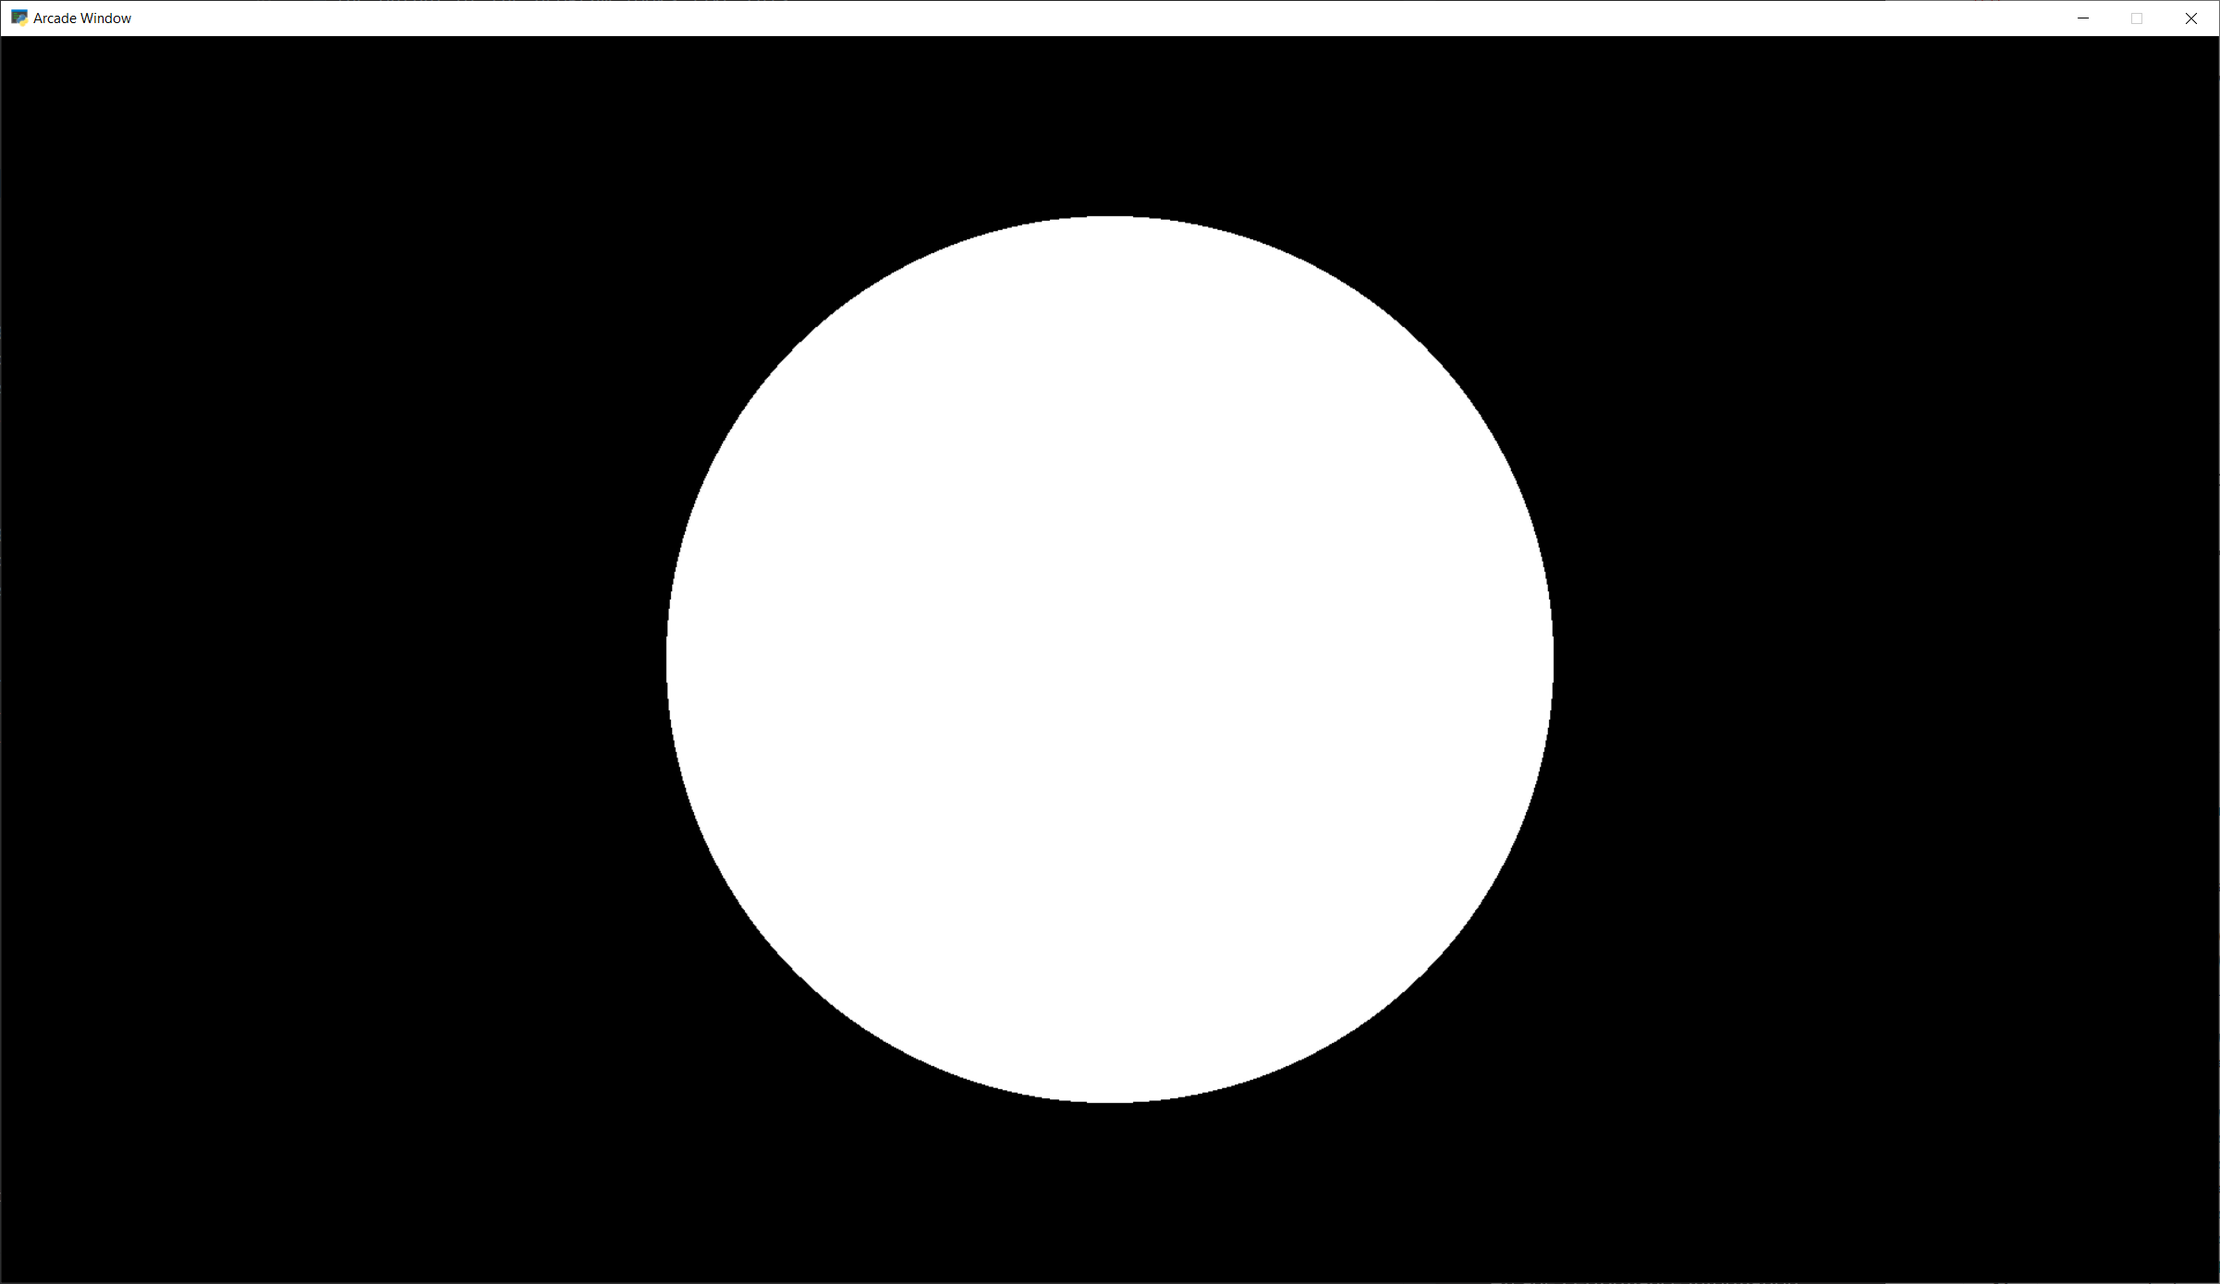
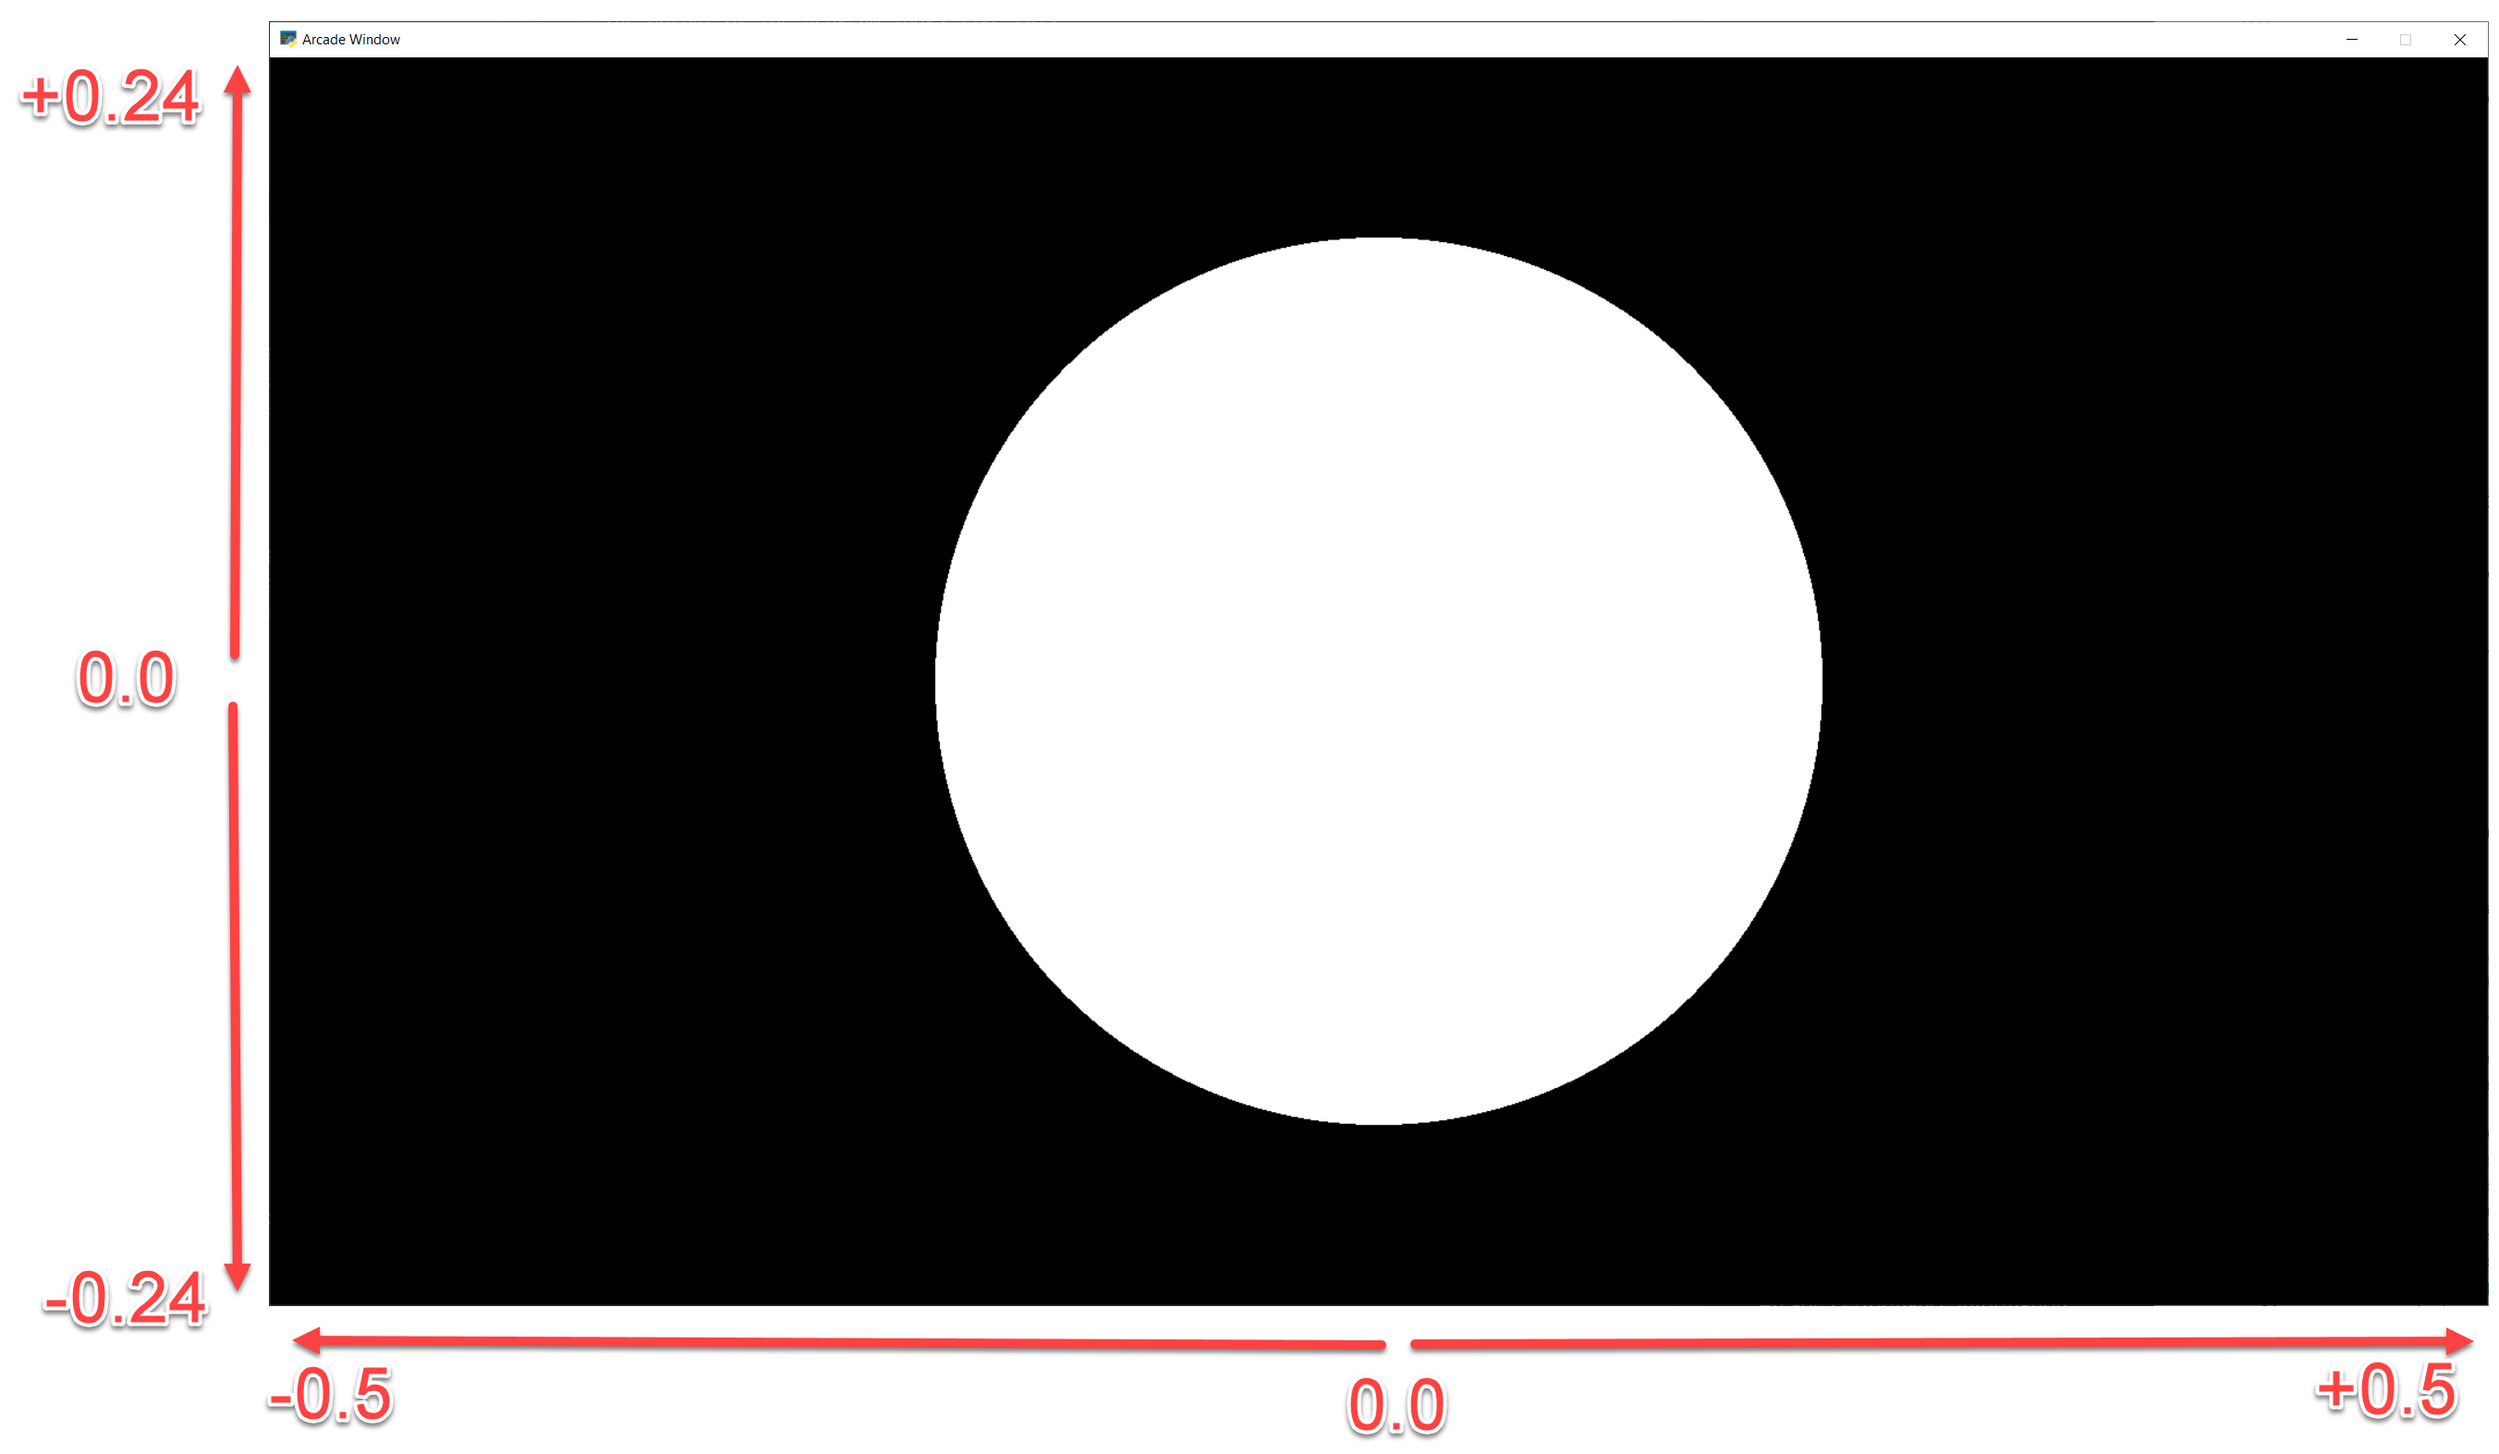
Work on shadertoy tutorial.

Changed region(s): [[0.0, 0.0, 1.0, 1.0], [0.281, 0.1547, 0.7494, 0.8662], [0.6557, 0.6496, 0.6869, 0.6806]]

diff --git a/doc/tutorials/shader_toy/shadertoy_demo_3.py b/doc/tutorials/shader_toy/shadertoy_demo_3.py
@@ -9,13 +9,16 @@ class MyGame(arcade.Window):
         super().__init__(width=1920, height=1080)
 
         # Read a GLSL program into a string
-        file = open("circle_5.glsl")
+        file = open("circle_6.glsl")
         shader_sourcecode = file.read()
         # Create a shader from it
         self.shadertoy = Shadertoy(size=self.get_size(),
                                    main_source=shader_sourcecode)
 
     def on_draw(self):
+        # Set uniform data to send to the GLSL shader
+        self.shadertoy.program['pos'] = self.mouse["x"], self.mouse["y"]
+        self.shadertoy.program['color'] = arcade.get_three_float_color(arcade.color.LIGHT_BLUE)
         # Run the GLSL code
         self.shadertoy.render()
 

diff --git a/doc/tutorials/shader_toy/index.rst b/doc/tutorials/shader_toy/index.rst
@@ -46,7 +46,8 @@ Next, let's create a simple first GLSL program. Our program will:
 * Normalize the coordinates. Instead of 0 to 1024, we'll go 0.0 to 1.0. This is standard
   practice, and allows us to work independently of resolution.
   Resolution is already stored for us in a standardized variable named ``iResolution``.
-* Next, we'll use a white color as default.
+* Next, we'll use a white color as default. Colors are four floating point RGBA values, ranging
+  from 0.0 to 1.0. To start with, we'll set just RGB and use 1.0 for alpha.
 * If we are greater that 0.2 for our coordinate (20% of screen size) we'll use black instead.
 * Set our output color, standardized with the variable name ``fracColor``.
 
@@ -80,37 +81,111 @@ Other default variables you can use:
 Step 3: Move origin to center of screen, adjust for aspect
 ----------------------------------------------------------
 
+Next up, we'd like to center our circle, and adjust for the
+aspect ratio. This will give us a (0, 0) in the middle of the screen
+and a perfect circle.
+
 .. literalinclude:: circle_2.glsl
     :caption: Center the origin
     :language: glsl
     :linenos:
+    :emphasize-lines: 6-9
 
 .. image:: circle_2.png
    :width: 60%
 
-.. note:: To Be Done...
+Step 4: Add a fade effect
+-------------------------
 
-    The rest of the is TBD
+We can take colors, like our white (1.0, 1.0, 1.0) and adjust their
+intensity by multiplying them times a float. Multiplying white times
+0.5 will give us gray (0.5, 0.5, 0.5).
 
+We can use this to create a fade effect around our circle.
+The inverse of the distance :math:`\frac{1}{d}` gives us a good curve.
+However the numbers are too large to adjust our white color. We can solve
+this by scaling it down. Run this, and adjust the scale value to see how
+it changes.
 
-Glow
-----
-
-.. literalinclude:: glow.glsl
-    :caption: GLSL code for creating a shader.
+.. literalinclude:: circle_3.glsl
+    :caption: Add fade effect
     :language: glsl
     :linenos:
+    :emphasize-lines: 11-18
+
+.. image:: circle_3.png
+   :width: 60%
+
+Step 5: Adjust how fast we fade
+-------------------------------
+
+We can use an exponent to adjust how steep or shallow that curve is.
+If we use 1.0 it will be the same, 0.5 will cause it to fade out slower, 1.5
+will fade faster.
+
+We can also change our color to orange.
+
+.. literalinclude:: circle_4.glsl
+    :caption: Adjusts fade speed
+    :language: glsl
+    :linenos:
+    :emphasize-lines: 15-16, 18-19
+
+.. image:: circle_4.png
+   :width: 60%
+
+Step 6: Tone adjust
+-------------------
+
+Once we add color, the glow looks a bit off.
+We can do "tone mapping" with a bit of math if you like the
+look better.
+
+.. literalinclude:: circle_5.glsl
+    :caption: Adjusts fade speed
+    :language: glsl
+    :linenos:
+    :emphasize-lines: 21-22
+
+.. image:: circle_5.png
+   :width: 60%
+
+Step 7: Positioning the glow
+----------------------------
+
+What if we want to position the glow at a certain spot? Send an x, y to
+center on? What if we want to control the color of the glow too?
+
+We can send data to our shader using *uniforms*. Those can easily be set in our
+Python program:
+
+.. literalinclude:: shadertoy_demo_3.py
+    :caption: Run a shader
+    :linenos:
+    :emphasize-lines: 19-21
+
+Then we can use those uniforms in our shader:
+
+.. literalinclude:: circle_6.glsl
+    :caption: Adjusts fade speed
+    :language: glsl
+    :linenos:
+    :emphasize-lines: 1-2, 8, 11, 23
+
+.. image:: circle_6.png
+   :width: 60%
 
 Other examples
 --------------
 
-This short ShaderToy demo loads a GLSL file and displays it:
+Here's another Python program that loads a GLSL file and displays it:
 
 .. literalinclude:: shadertoy_demo.py
     :caption: Shader Toy Demo
     :linenos:
 
-You can click on the caption below the example shaders here to see the source
+You can use this demo with any of the sample code below.
+Click on the caption below the example shaders here to see the source
 code for the shader.
 
 Some other sample shaders:
@@ -130,11 +205,10 @@ Some other sample shaders:
 
    :ref:`fractal_pyramid`
 
-Writing shaders is beyond the scope of this tutorial. Unfortunately,
-I haven't found one comprehensive tutorial on how to write a shader. There
-are several smaller tutorials out there that are good.
+Additional learning
+-------------------
 
-Here is one learn-by-example tutorial:
+Here is a decent learn-by-example tutorial for making shaders:
 
 https://www.shadertoy.com/view/Md23DV
 

diff --git a/doc/development/release_notes.rst b/doc/development/release_notes.rst
@@ -7,6 +7,15 @@ Release Notes
 
 Keep up-to-date with the latest changes to the Arcade library by the release notes.
 
+2.6.12
+------
+
+*Unreleased*
+
+* Documentation
+
+  * Work on :ref:`shader_toy_tutorial`.
+
 2.6.11
 ------
 
